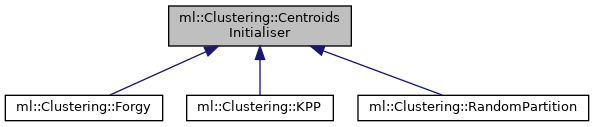
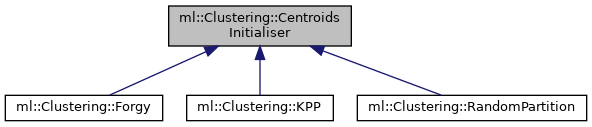
Deploy romanwerpachowski/ML to github.com/romanwerpachowski/ML.git:gh-pages

diff --git a/html/classml_1_1Clustering_1_1RandomPartition.html b/html/classml_1_1Clustering_1_1RandomPartition.html
@@ -115,8 +115,8 @@ Inheritance diagram for ml::Clustering::RandomPartition:</div>
 <div class="dyncontent">
 <div class="center"><img src="classml_1_1Clustering_1_1RandomPartition__inherit__graph.png" border="0" usemap="#ml_1_1Clustering_1_1RandomPartition_inherit__map" alt="Inheritance graph"/></div>
 <map name="ml_1_1Clustering_1_1RandomPartition_inherit__map" id="ml_1_1Clustering_1_1RandomPartition_inherit__map">
-<area shape="rect" title="Assigns points to clusters randomly and then returns cluster means." alt="" coords="5,95,236,121"/>
-<area shape="rect" href="classml_1_1Clustering_1_1CentroidsInitialiser.html" title="Chooses initial locations of centroids." alt="" coords="29,5,212,47"/>
+<area shape="rect" title="Assigns points to clusters randomly and then returns cluster means." alt="" coords="5,95,235,121"/>
+<area shape="rect" href="classml_1_1Clustering_1_1CentroidsInitialiser.html" title="Chooses initial locations of centroids." alt="" coords="29,5,211,47"/>
 </map>
 <center><span class="legend">[<a target="top" href="graph_legend.html">legend</a>]</span></center></div>
 <div class="dynheader">
@@ -124,8 +124,8 @@ Collaboration diagram for ml::Clustering::RandomPartition:</div>
 <div class="dyncontent">
 <div class="center"><img src="classml_1_1Clustering_1_1RandomPartition__coll__graph.png" border="0" usemap="#ml_1_1Clustering_1_1RandomPartition_coll__map" alt="Collaboration graph"/></div>
 <map name="ml_1_1Clustering_1_1RandomPartition_coll__map" id="ml_1_1Clustering_1_1RandomPartition_coll__map">
-<area shape="rect" title="Assigns points to clusters randomly and then returns cluster means." alt="" coords="5,95,236,121"/>
-<area shape="rect" href="classml_1_1Clustering_1_1CentroidsInitialiser.html" title="Chooses initial locations of centroids." alt="" coords="29,5,212,47"/>
+<area shape="rect" title="Assigns points to clusters randomly and then returns cluster means." alt="" coords="5,95,235,121"/>
+<area shape="rect" href="classml_1_1Clustering_1_1CentroidsInitialiser.html" title="Chooses initial locations of centroids." alt="" coords="29,5,211,47"/>
 </map>
 <center><span class="legend">[<a target="top" href="graph_legend.html">legend</a>]</span></center></div>
 <table class="memberdecls">

diff --git a/html/inherits.html b/html/inherits.html
@@ -108,9 +108,9 @@ $(document).ready(function(){initNavTree('hierarchy.html',''); initResizable(); 
 <tr><td><img src="inherit_graph_0.png" border="0" usemap="#ml_1_1Clustering_1_1CentroidsInitialiser" alt=""/>
 <map name="ml_1_1Clustering_1_1CentroidsInitialiser" id="ml_1_1Clustering_1_1CentroidsInitialiser">
 <area shape="rect" href="classml_1_1Clustering_1_1CentroidsInitialiser.html" title="Chooses initial locations of centroids." alt="" coords="5,49,188,90"/>
-<area shape="rect" href="classml_1_1Clustering_1_1Forgy.html" title="Chooses random points as new centroids." alt="" coords="273,5,430,32"/>
-<area shape="rect" href="classml_1_1Clustering_1_1KPP.html" title="Implements the K++ algorithm." alt="" coords="278,56,425,83"/>
-<area shape="rect" href="classml_1_1Clustering_1_1RandomPartition.html" title="Assigns points to clusters randomly and then returns cluster means." alt="" coords="236,107,467,133"/>
+<area shape="rect" href="classml_1_1Clustering_1_1Forgy.html" title="Chooses random points as new centroids." alt="" coords="272,5,429,32"/>
+<area shape="rect" href="classml_1_1Clustering_1_1KPP.html" title="Implements the K++ algorithm." alt="" coords="277,56,424,83"/>
+<area shape="rect" href="classml_1_1Clustering_1_1RandomPartition.html" title="Assigns points to clusters randomly and then returns cluster means." alt="" coords="236,107,465,133"/>
 </map>
 </td></tr>
 <tr><td><img src="inherit_graph_1.png" border="0" usemap="#ml_1_1Clustering_1_1ResponsibilitiesInitialiser" alt=""/>

diff --git a/html/navtreeindex0.js b/html/navtreeindex0.js
@@ -87,13 +87,12 @@ var NAVTREEINDEX0 =
 "functions_vars.html":[2,3,2],
 "hierarchy.html":[2,2],
 "index.html":[],
-"index.html":[0],
-"index.html#Clustering":[0,0,0],
-"index.html#Cross-validation":[0,0,3],
-"index.html#Statistics":[0,0,4],
-"index.html#decision_trees":[0,0,1],
-"index.html#linreg":[0,0,2],
-"index.html#provalg":[0,0],
+"index.html#Clustering":[0,0],
+"index.html#Cross-validation":[0,3],
+"index.html#Statistics":[0,4],
+"index.html#decision_trees":[0,1],
+"index.html#linreg":[0,2],
+"index.html#provalg":[0],
 "namespacemembers.html":[1,1,0],
 "namespacemembers_func.html":[1,1,1],
 "namespacemembers_type.html":[1,1,2],
@@ -102,8 +101,8 @@ var NAVTREEINDEX0 =
 "namespaceml_1_1Crossvalidation.html":[1,0,0,1],
 "namespaceml_1_1DecisionTrees.html":[2,0,0,1],
 "namespaceml_1_1DecisionTrees.html":[1,0,0,2],
-"namespaceml_1_1LinearRegression.html":[2,0,0,2],
 "namespaceml_1_1LinearRegression.html":[1,0,0,3],
+"namespaceml_1_1LinearRegression.html":[2,0,0,2],
 "namespaceml_1_1Statistics.html":[1,0,0,4],
 "namespaces.html":[1,0],
 "pages.html":[],

diff --git a/html/navtreedata.js b/html/navtreedata.js
@@ -23,14 +23,12 @@ for the JavaScript code in this file
 var NAVTREE =
 [
   [ "MLpp", "index.html", [
-    [ "ML++", "index.html", [
-      [ "Provided algorithms", "index.html#provalg", [
-        [ "Clustering", "index.html#Clustering", null ],
-        [ "Decision trees", "index.html#decision_trees", null ],
-        [ "Linear regression", "index.html#linreg", null ],
-        [ "Cross-validation", "index.html#Cross-validation", null ],
-        [ "Statistics", "index.html#Statistics", null ]
-      ] ]
+    [ "Provided algorithms", "index.html#provalg", [
+      [ "Clustering", "index.html#Clustering", null ],
+      [ "Decision trees", "index.html#decision_trees", null ],
+      [ "Linear regression", "index.html#linreg", null ],
+      [ "Cross-validation", "index.html#Cross-validation", null ],
+      [ "Statistics", "index.html#Statistics", null ]
     ] ],
     [ "Namespaces", "namespaces.html", [
       [ "Namespace List", "namespaces.html", "namespaces_dup" ],

diff --git a/html/classml_1_1Clustering_1_1CentroidsInitialiser.html b/html/classml_1_1Clustering_1_1CentroidsInitialiser.html
@@ -118,7 +118,7 @@ Inheritance diagram for ml::Clustering::CentroidsInitialiser:</div>
 <area shape="rect" title="Chooses initial locations of centroids." alt="" coords="169,5,351,47"/>
 <area shape="rect" href="classml_1_1Clustering_1_1Forgy.html" title="Chooses random points as new centroids." alt="" coords="5,95,163,121"/>
 <area shape="rect" href="classml_1_1Clustering_1_1KPP.html" title="Implements the K++ algorithm." alt="" coords="187,95,333,121"/>
-<area shape="rect" href="classml_1_1Clustering_1_1RandomPartition.html" title="Assigns points to clusters randomly and then returns cluster means." alt="" coords="358,95,589,121"/>
+<area shape="rect" href="classml_1_1Clustering_1_1RandomPartition.html" title="Assigns points to clusters randomly and then returns cluster means." alt="" coords="357,95,587,121"/>
 </map>
 <center><span class="legend">[<a target="top" href="graph_legend.html">legend</a>]</span></center></div>
 <table class="memberdecls">

diff --git a/html/index.html b/html/index.html
@@ -5,7 +5,7 @@
 <meta http-equiv="X-UA-Compatible" content="IE=9"/>
 <meta name="generator" content="Doxygen 1.8.17"/>
 <meta name="viewport" content="width=device-width, initial-scale=1"/>
-<title>MLpp: ML++</title>
+<title>MLpp: MLpp</title>
 <link href="tabs.css" rel="stylesheet" type="text/css"/>
 <script type="text/javascript" src="jquery.js"></script>
 <script type="text/javascript" src="dynsections.js"></script>
@@ -99,7 +99,7 @@ $(document).ready(function(){initNavTree('index.html',''); initResizable(); });
 
 <div class="PageDoc"><div class="header">
   <div class="headertitle">
-<div class="title">ML++ </div>  </div>
+<div class="title">MLpp </div>  </div>
 </div><!--header-->
 <div class="contents">
 <div class="textblock"><p>C++ library with efficient implementations of selected machine learning algorithms.</p>

diff --git a/html/search/all_b.js b/html/search/all_b.js
@@ -3,7 +3,7 @@ var searchData=
   ['clustering_42',['Clustering',['../namespaceml_1_1Clustering.html',1,'ml']]],
   ['crossvalidation_43',['Crossvalidation',['../namespaceml_1_1Crossvalidation.html',1,'ml']]],
   ['decisiontrees_44',['DecisionTrees',['../namespaceml_1_1DecisionTrees.html',1,'ml']]],
-  ['ml_2b_2b_45',['ML++',['../index.html',1,'']]],
+  ['mlpp_45',['MLpp',['../index.html',1,'']]],
   ['linearregression_46',['LinearRegression',['../namespaceml_1_1LinearRegression.html',1,'ml']]],
   ['means_47',['means',['../classml_1_1EM.html#a7ab4b5d790cd3a37b12703c010d2056b',1,'ml::EM']]],
   ['means_5finitialiser_48',['means_initialiser',['../classml_1_1EM.html#a5df516d211f0230d006fb4146aa7773e',1,'ml::EM']]],

diff --git a/html/search/pages_0.js b/html/search/pages_0.js
@@ -1,4 +1,4 @@
 var searchData=
 [
-  ['ml_2b_2b_234',['ML++',['../index.html',1,'']]]
+  ['mlpp_234',['MLpp',['../index.html',1,'']]]
 ];

diff --git a/index.md b/index.md
@@ -67,17 +67,9 @@ for a Release (optimised) build.
 
 ### Doxygen documentation
 
-C++ code has Doxygen-compatible comments. To generate HTML documentation from them, run 
-(from the main repository directory):
-
-```bash
-cd ML
-doxygen
-```
-
-(requires `doxygen` and `graphviz` to be installed). The documentation will be written to
-`ML/docs/html` subdirectory. A pre-built version of this documentation for the current HEAD version
-is [here](html/index.html).
+C++ code has Doxygen-compatible comments. To generate [HTML documentation](html/index.html) from
+them, run  in the main repository directory `doxygen Doxyfile` (requires `doxygen` and `graphviz` 
+to be installed). The documentation will be written to the `docs/html` subdirectory.
 
 ## Python extension
 
